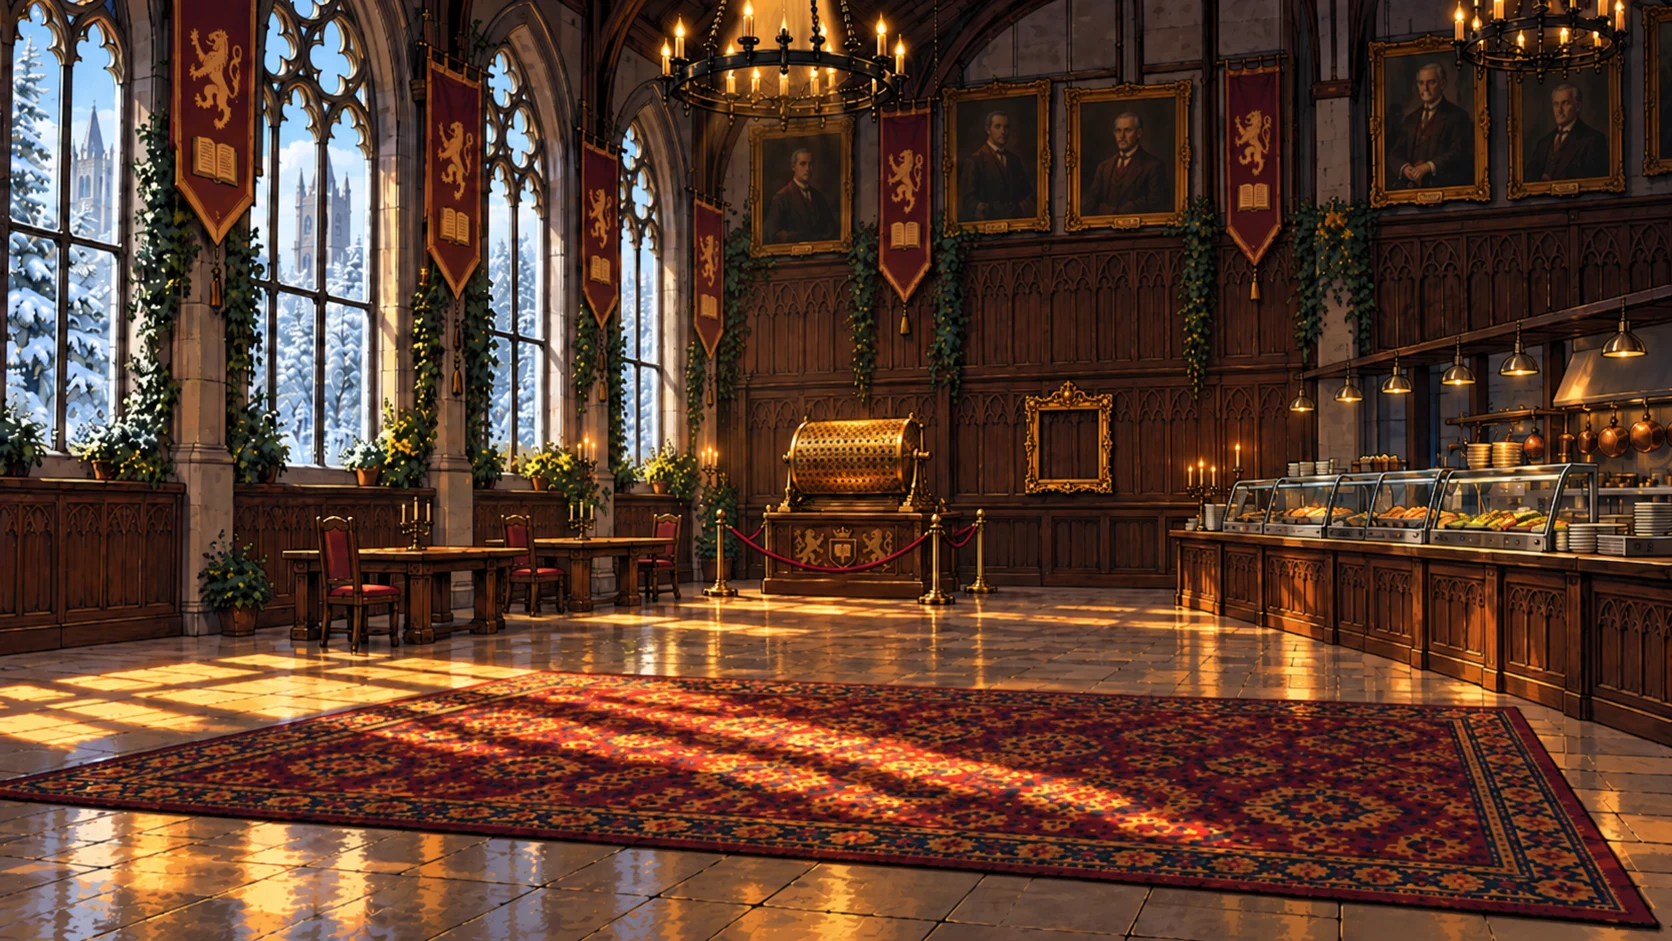
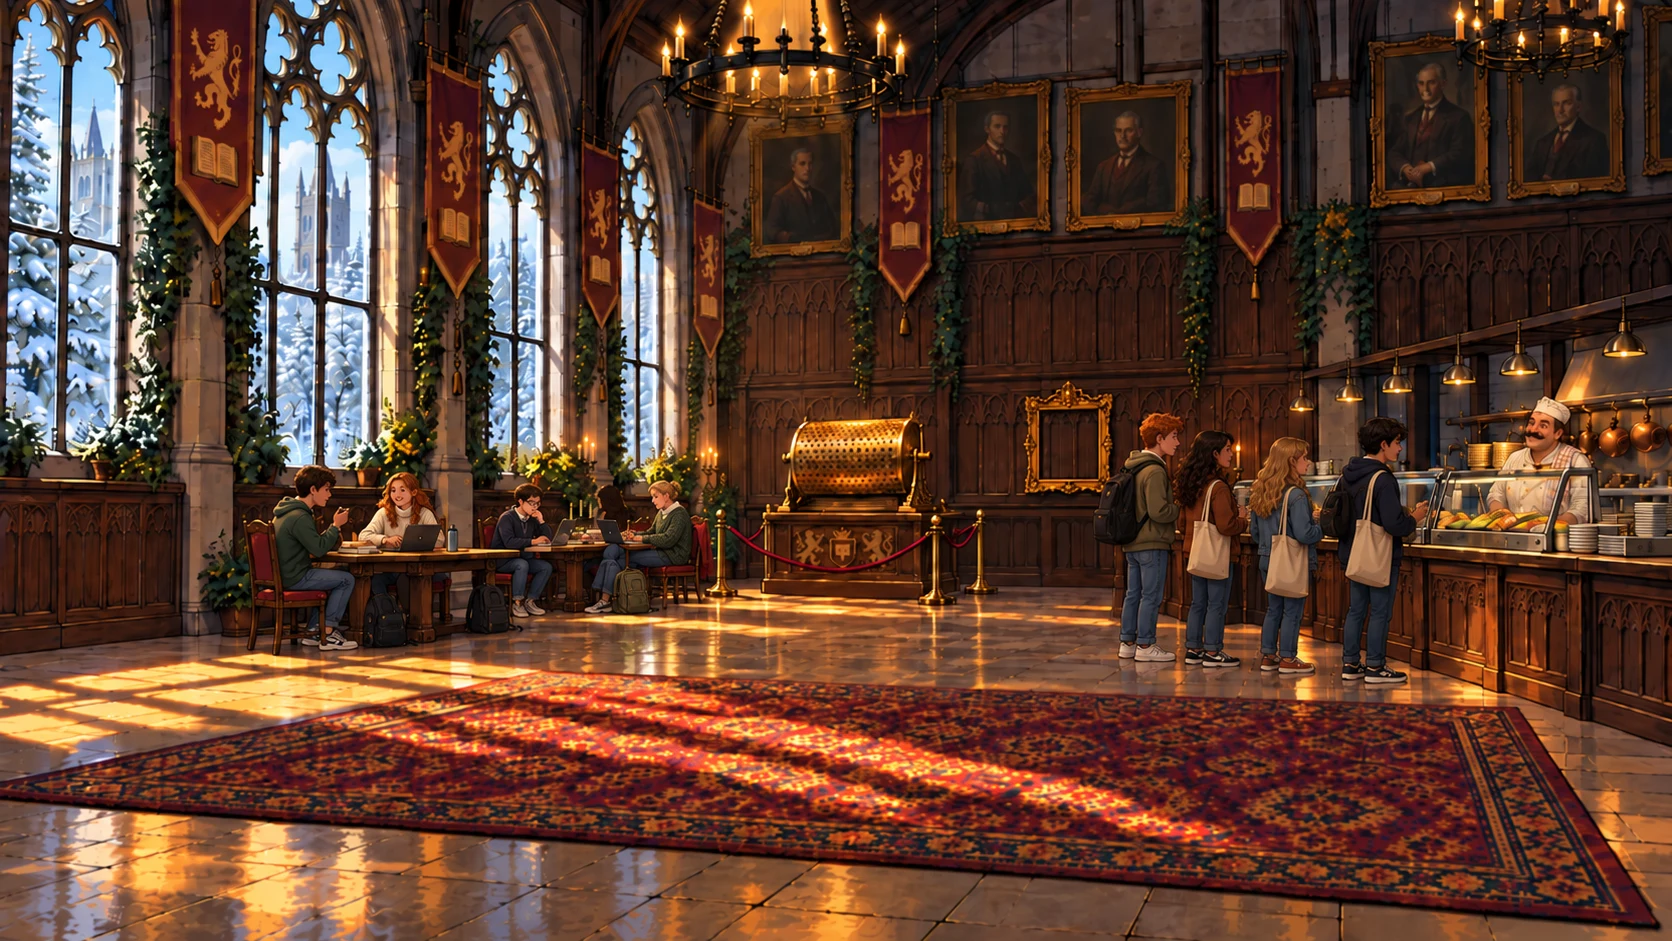
Earlier acts' rooms close when the act is over (only the Office stays open throughout); Tobi only turns up in open rooms. Mensa crowd painted into the room (modern students at lunch, the queue, the cook) instead of ill-fitting cut-outs; the hotline portrait no longer flickers. Tests keep every room 
Claude-Session: https://claude.ai/code/session_01NVbNvGwATBDeX3jSoy7jXs

diff --git a/web/the-secret-of-the-codebook.html b/web/the-secret-of-the-codebook.html
@@ -2875,6 +2875,10 @@
   // (the name is assembled from parts so the asset tests do not read a fragment of it as a file name)
   function actTrackName(n){ return ['act', n, '-theme', '.mp3'].join(''); }
   // Act I autumn (the original painting), then late autumn, winter, deep winter, spring.
+  // Earlier acts' rooms close when the act is over (author, 2026-09-29: "close rooms when they are not
+  // needed"); the Professor's Office stays open in every act, since every act hands off through it.
+  var ACT_NO = { 'Act I':1, 'Act II':2, 'Act III':3, 'Act IV':4, 'Act V':5 };
+  window.CODEBOOK_ROOM_CLOSED = function(room){ return !window.CODEBOOK_OPEN_ALL_ROOMS && room.id !== 'whirlpool' && (ACT_NO[room.act] || 1) < currentActNo(); };   // (tests may open all)
   var SEASON_BY_ACT = { 1:'', 2:'lateautumn', 3:'winter', 4:'winter', 5:'spring' }, SEASON_OK = { winter:true, spring:true, lateautumn:true };
   window.CODEBOOK_SEASON = function(){ var k = SEASON_BY_ACT[currentActNo()]; return SEASON_OK[k] ? k : ''; };
   // ---- the map, alive (author, 2026-09-28): leaves, snow or blossom by season, and now and then a
@@ -3055,7 +3059,7 @@
     var TAKEN_OVER = CURRENT_ACT === 'Act V' ? ['mensa', 'hall', 'library'] : [];
     ROOMS.forEach(function(room){
       var box = MAP_LAYOUT[room.id];
-      if (!box || TAKEN_OVER.indexOf(room.id) !== -1) return;
+      if (!box || TAKEN_OVER.indexOf(room.id) !== -1 || window.CODEBOOK_ROOM_CLOSED(room)) return;
       var done = hasFlag(room.doneFlag);
       var unlocked = done || isUnlocked(room);
       var btn = document.createElement('button');
@@ -3633,8 +3637,10 @@
       taken:'&ldquo;Cool cool cool.&rdquo; <i>(he does not move)</i>' }
   ];
   function tobiReroll(){
-    // Two thirds of the time he is somewhere; the rest of the time he is in a meeting.
-    GAME.flags.tobiRoom = Math.random() < 0.34 ? '' : TOBI_ROOMS[Math.floor(Math.random() * TOBI_ROOMS.length)];
+    // Two thirds of the time he is somewhere; the rest of the time he is in a meeting. Only in rooms
+    // that are open this act (2026-09-29: earlier acts' rooms close).
+    var open = TOBI_ROOMS.filter(function(id){ var r = roomById(id); return r && !window.CODEBOOK_ROOM_CLOSED(r); });
+    GAME.flags.tobiRoom = (Math.random() < 0.34 || !open.length) ? '' : open[Math.floor(Math.random() * open.length)];
     saveGame();
   }
   window.CODEBOOK_TOBI_HERE = function(roomId){
@@ -4153,7 +4159,7 @@
     var host = [].slice.call(document.querySelectorAll('#root .scene-wrap')).filter(function(e){ return e.offsetParent; })[0];
     var box = document.createElement('div'); box.className = 'cb-call' + (host ? '' : ' fixed');
     box.innerHTML = '<div class="pane left"><img src="call-hand.webp" alt=""><div class="tag">CALLING &middot; SCHNITZEL HOTLINE</div></div>' +
-      '<div class="pane right"><div class="face" data-voice="cook"><img src="sprite-cook.webp" alt="" style="object-fit:cover;object-position:50% 20%"></div>' +
+      '<div class="pane right"><div class="face" data-voice="cook"><img src="sprite-cook.webp" data-nomouth alt="" style="object-fit:cover;object-position:50% 20%"></div>' +
         '<div class="ringing"><div class="av">&#127831;</div><div class="nm">Schnitzel Hotline</div><div class="st">calling<i>&hellip;</i></div><div class="end">&#9990;</div></div></div>' +
       '<div class="box"><b class="sp"></b><div class="ln"></div><div class="btns"></div></div>';
     (host || document.body).appendChild(box); callBusy = true;
@@ -4227,7 +4233,7 @@
 
   function fileOf(src){ return (src || '').split('/').pop().split('?')[0]; }
   function mouthFor(img){
-    if (!img || img.tagName !== 'IMG' || img.classList.contains('cb-mouth-free') || img.classList.contains('cb-mouth') || img.classList.contains('cb-mouth-solo')) return;
+    if (!img || img.tagName !== 'IMG' || img.hasAttribute('data-nomouth') || img.classList.contains('cb-mouth-free') || img.classList.contains('cb-mouth') || img.classList.contains('cb-mouth-solo')) return;
     var f = fileOf(img.getAttribute('src')), m = MOUTHS[f], nx = img.nextElementSibling;
     if (nx && nx.classList && nx.classList.contains('cb-mouth-free')){
       if (m && nx.dataset.for === f) return;
@@ -13261,11 +13267,11 @@ CODEBOOK_REGISTER({
 // repainted (author, 2026-09-29): the drum smaller at the back wall, the frame hung low on the panelling,
 // two tables by the windows, the counter on the right, and open floor for Bourdieu, the students and the cook
 var HOTSPOTS = [
-  { id:'tables',   label:'Dining tables by the windows',  noun:'the tables',        l:17,   t:52,   w:24,   h:15 },
+  { id:'tables',   label:'Students at lunch',            noun:'the students at lunch', l:15, t:49, w:28, h:17 },
   { id:'drum',     label:'The Great Randomisation Drum', noun:'the drum',         l:46.5, t:43,   w:10.5, h:13 },
   { id:'officer',  label:'The drum&rsquo;s plinth',       noun:'the Sampling Officer', l:45.5, t:55.5, w:13, h:8.5 },
   { id:'frame',    label:'An empty gilded frame',       noun:'the frame',         l:60.8, t:40,   w:6.4,  h:13.5 },
-  { id:'counters', label:'The lunch queue at the counters', noun:'the lunch queue', l:72,   t:44,   w:28,   h:32 },
+  { id:'counters', label:'The cook, and the lunch queue', noun:'the lunch queue', l:66,   t:42,   w:30,   h:30 },
   { id:'herald',   label:'The Sampling Officer',        noun:'the Sampling Officer', l:34.5, t:40,  w:11,   h:37 }
 ];
 // The room's whole joke is that the lunch queue is not a population -- "this queue is
@@ -13277,16 +13283,14 @@ var HOTSPOTS = [
 // them is about a seventh of the frame tall; the left benches are far closer to camera).
 var SPRITES = [
   { id:'herald', voice:'officer', mouth:'mouth-officer.webp', src:'sprite-officer.webp', l:34.5, t:40, w:11, h:37 },
-  { id:'diners', src:'sprite-diners.webp', l:19,   t:46.5, w:13.8, h:14 },
-  // the cook behind his counter, and the queue in front of it (array order is DOM order)
-  { id:'cook',   src:'sprite-cook.webp',   l:77,   t:36.5, w:9.5,  h:20 },
-  { id:'queue',  src:'sprite-queue.webp',  l:79,   t:55,   w:16.4, h:20 },
+  // the diners, the queue and the cook are painted into the room now (author, 2026-09-29: the old
+  // cut-outs "do not fit anymore"); only the people you walk up to are sprites
   { id:'bourdieu', voice:'bourdieu', src:'sprite-bourdieu.webp', l:9, t:42, w:9.2, h:46 },
   // (hidden for good: the mug and the SR-2 are gone from the ceremony, 2026-09-28)
   { id:'placedMug',  src:'icon-mug.webp',          l:44.2, t:73.5, w:3.2, h:5.6 },
   { id:'placedSR2',  src:'icon-raffledrum.webp',  l:57.6, t:66.5, w:5.0, h:8.4 },
   // the tote-bag list the cook pins on the wall above the till (ROADMAP 8zn)
-  { id:'pinnedList', src:'icon-wrongsamplelist.webp', l:88, t:30, w:2.6, h:4.8 }
+  { id:'pinnedList', src:'icon-wrongsamplelist.webp', l:93.5, t:36, w:2.6, h:4.8 }
 ];
 
 CODEBOOK_REGISTER({
@@ -13392,13 +13396,13 @@ CODEBOOK_REGISTER({
     function handBag(done){
       var wrap = document.getElementById('mn_sceneWrap'); if (!wrap){ done(); return; }
       var b = document.createElement('img'); b.src = 'icon-lunchbag.webp'; b.alt = '';
-      b.style.cssText = 'position:absolute;left:81%;top:47%;width:4.5%;z-index:30;pointer-events:none;transform:translate(-50%,-50%) scale(.3);opacity:0;filter:drop-shadow(0 4px 6px rgba(0,0,0,.45));transition:transform .35s cubic-bezier(.3,1.6,.5,1),opacity .2s';
+      b.style.cssText = 'position:absolute;left:91%;top:50%;width:4.5%;z-index:30;pointer-events:none;transform:translate(-50%,-50%) scale(.3);opacity:0;filter:drop-shadow(0 4px 6px rgba(0,0,0,.45));transition:transform .35s cubic-bezier(.3,1.6,.5,1),opacity .2s';
       wrap.appendChild(b);
       window.CODEBOOK_SFX('sfx-paper', 0.35);
       requestAnimationFrame(function(){ requestAnimationFrame(function(){ b.style.opacity = '1'; b.style.transform = 'translate(-50%,-50%) scale(1) rotate(-8deg)'; }); });
       setTimeout(function(){
         b.animate([
-          { left:'81%', top:'47%', transform:'translate(-50%,-50%) scale(1) rotate(-8deg)' },
+          { left:'91%', top:'50%', transform:'translate(-50%,-50%) scale(1) rotate(-8deg)' },
           { left:'68%', top:'34%', transform:'translate(-50%,-50%) scale(1.5) rotate(10deg)', offset:.5 },
           { left:'52%', top:'62%', transform:'translate(-50%,-50%) scale(2) rotate(-4deg)' }
         ], { duration:750, easing:'ease-in-out', fill:'forwards' });

diff --git a/tools/test/test-closedrooms.js b/tools/test/test-closedrooms.js
@@ -1,0 +1,29 @@
+// Finished acts' rooms close (author, 2026-09-29): in Act IV only the Act IV rooms and the Office are
+// on the map; in Act V only Act V's; the Office is always there.
+process.env.CB_REAL_CLOSURE = '1';
+const { connect } = require('./cdp');
+const U = 'http://localhost:8934/the-secret-of-the-codebook.html?cb=';
+(async () => {
+  const p = await connect(U + Date.now());
+  const out = {};
+  for (const [act, flags] of [['IV', { corridorDone:true, slipSealed:true, actIIIDone:true, act2IntroSeen:true, act3IntroSeen:true, act4IntroSeen:true }],
+                              ['V',  { corridorDone:true, slipSealed:true, actIIIDone:true, actIVDone:true, act2IntroSeen:true, act3IntroSeen:true, act4IntroSeen:true, act5IntroSeen:true }]]){
+    await p.evaluate('localStorage.setItem("codebook_save_v1", ' + JSON.stringify(JSON.stringify({ inventory:['folder'], flags })) + ')');
+    await p.send('Page.navigate', { url: U + Date.now() }); await p.ready();
+    out[act] = JSON.parse(await p.evaluate(`(async()=>{ const sp=document.getElementById('bootSplash'); if(sp) sp.remove(); window.CODEBOOK_START(); await new Promise(r=>setTimeout(r,900));
+      return JSON.stringify([...document.querySelectorAll('button.campus-hotspot')].map(b => b.title.split(' —')[0])); })()`));
+  }
+  const r = {
+    ivHasOffice: out.IV.includes('The Seven-Second Office'),
+    ivHasCasino: out.IV.includes('Statistics Basement'),
+    ivNoMensa: !out.IV.includes('The Mensa'),
+    ivNoLibrary: !out.IV.includes('The Library'),
+    vHasPosters: out.V.includes('The Poster Session'),
+    vNoBureau: !out.V.includes('The Bureau of Implications'),
+    vHasOffice: out.V.includes('The Seven-Second Office')
+  };
+  console.log(JSON.stringify(r, null, 1), JSON.stringify(out), '\nerrors:', p.errors.length ? p.errors : 'none');
+  await p.evaluate(`localStorage.removeItem('codebook_save_v1')`);
+  const ok = Object.values(r).every(v => v) && !p.errors.length;
+  console.log(ok ? 'PASS' : 'FAIL'); p.close(); process.exit(ok ? 0 : 1);
+})();

diff --git a/tools/test/cdp.js b/tools/test/cdp.js
@@ -31,6 +31,9 @@ async function connect(url) {
   // measured from the previous version, and test-audio reported an overrun that had
   // already been fixed on disk.
   await send('Network.enable'); await send('Network.setCacheDisabled', { cacheDisabled: true });
+  // Rooms of finished acts close (2026-09-29). Most tests seed a later act and then visit an earlier
+  // room on purpose, so by default the harness keeps every room open; test-closedrooms turns it off.
+  if (!process.env.CB_REAL_CLOSURE) await send('Page.addScriptToEvaluateOnNewDocument', { source: 'window.CODEBOOK_OPEN_ALL_ROOMS = true;' });
   // Wait for the game to be usable rather than for a fixed number of seconds. Every test
   // used to sleep 4-4.5s after each navigation "to be safe", which across 28 tests was
   // most of the suite's runtime; the page is normally ready in well under a second.
